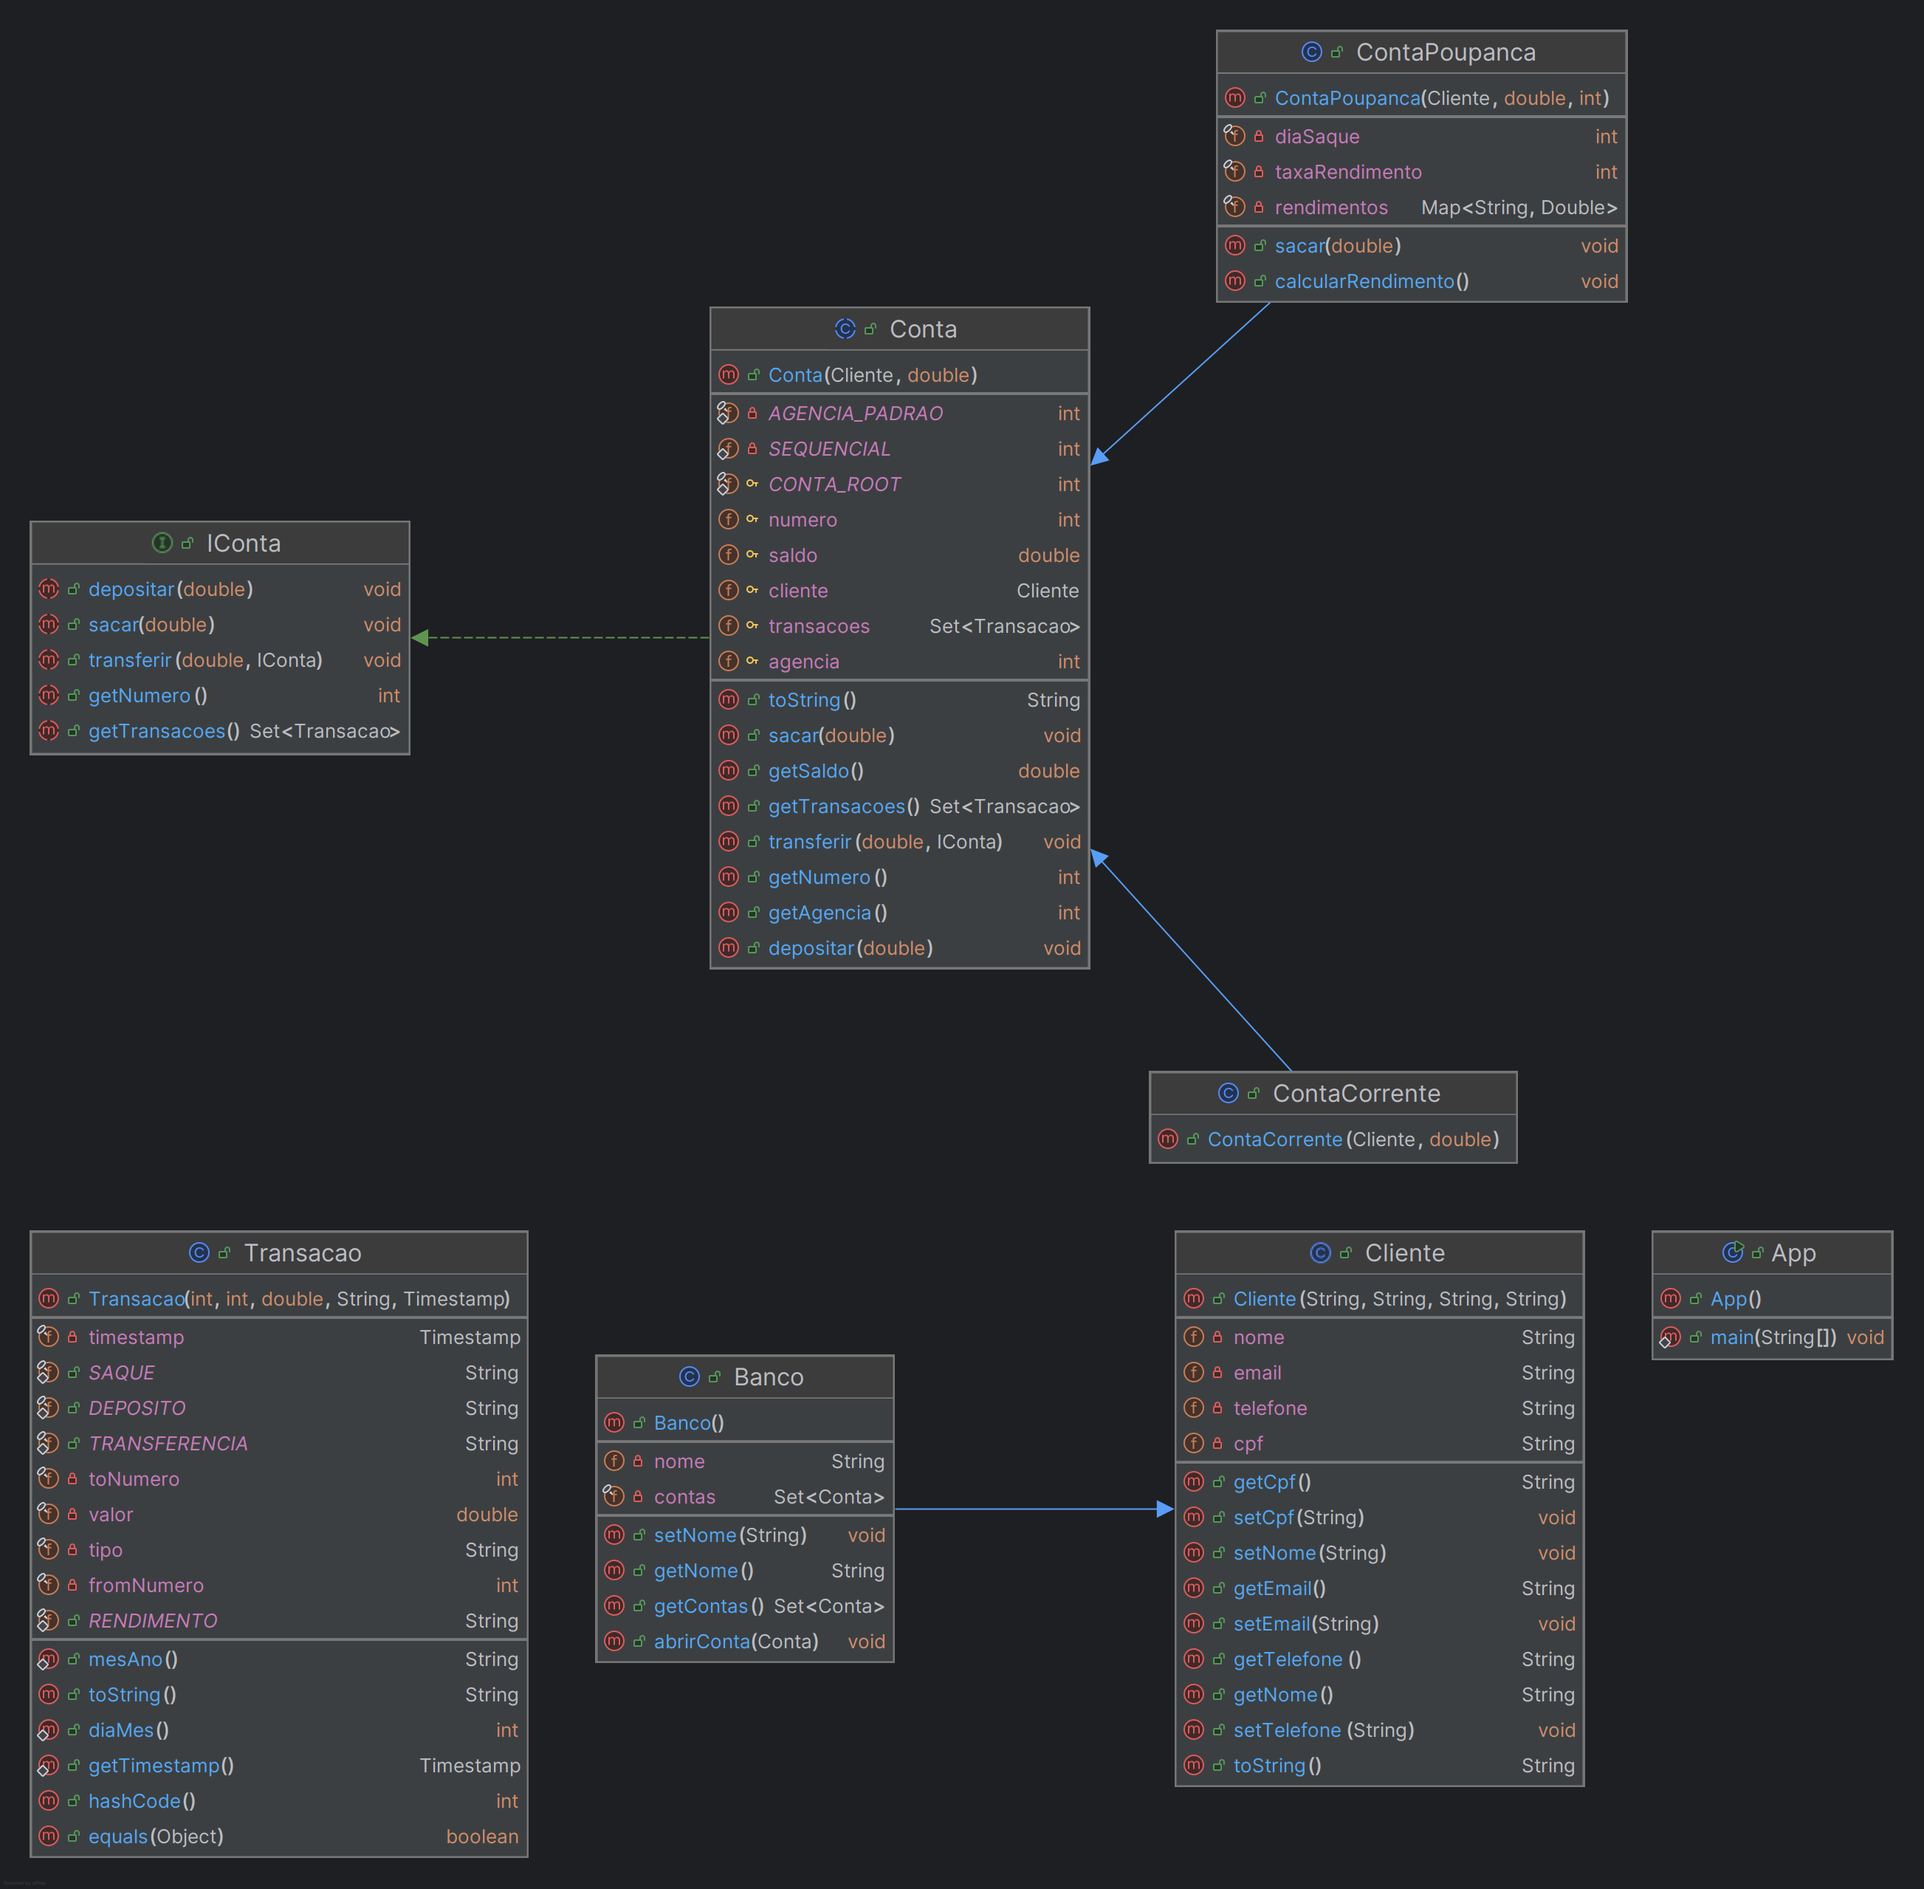
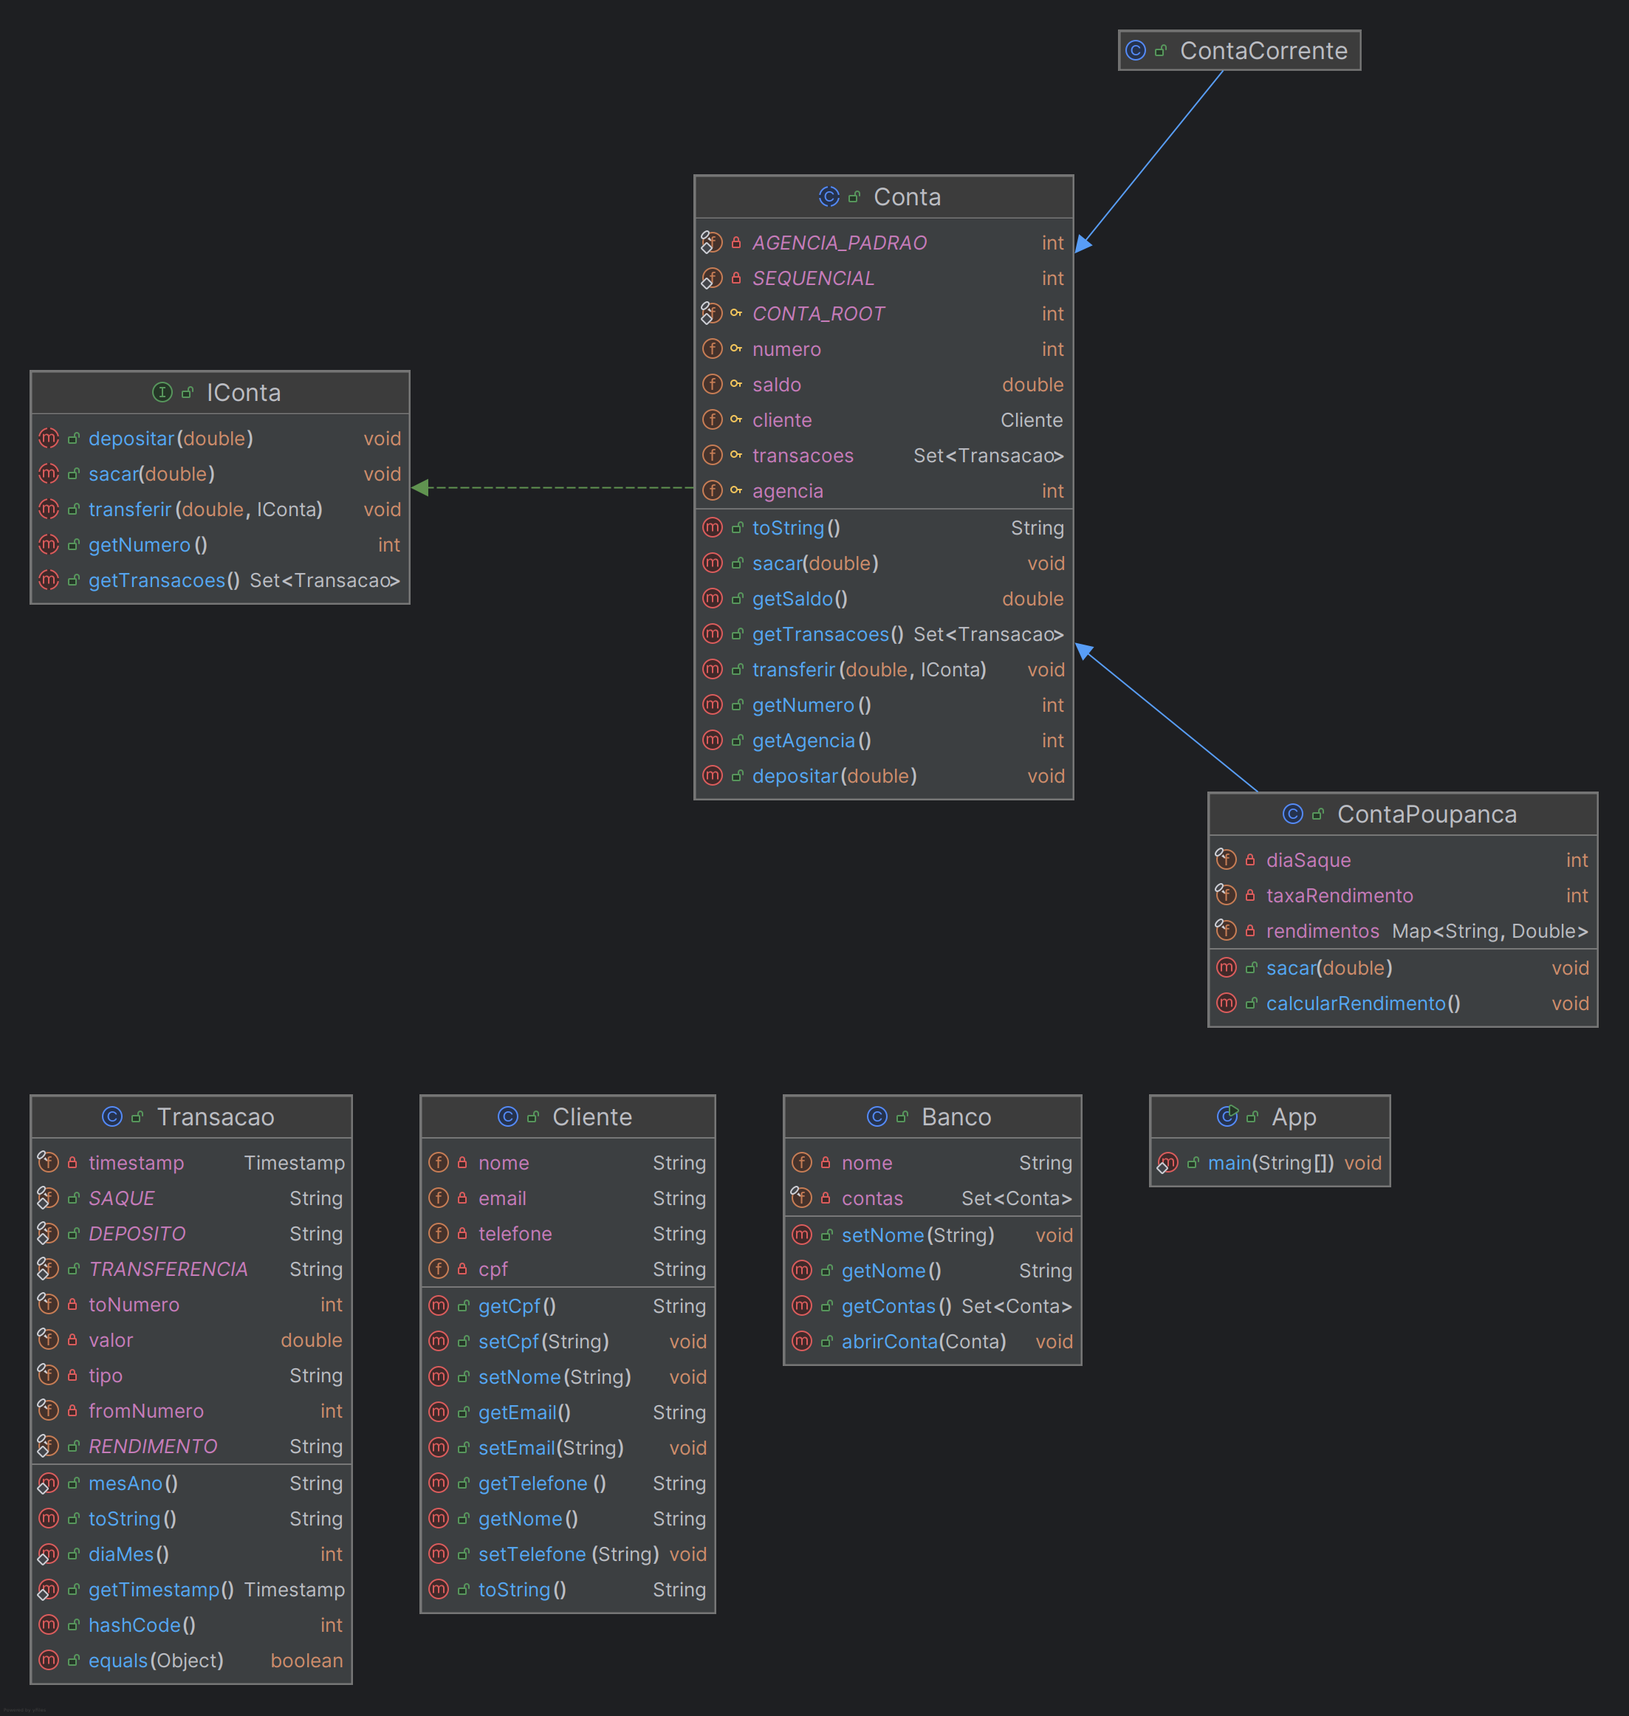
fix:diagram

diff --git a/lab-banco-digital-00/src/main/java/br/com/dio/lab/banco/dominio/Banco.java b/lab-banco-digital-00/src/main/java/br/com/dio/lab/banco/dominio/Banco.java
@@ -3,7 +3,7 @@ package br.com.dio.lab.banco.dominio;
 import java.util.LinkedHashSet;
 import java.util.Set;
 
-public class Banco extends Cliente {
+public class Banco {
 
     private final Set<Conta> contas;
     private String nome;
